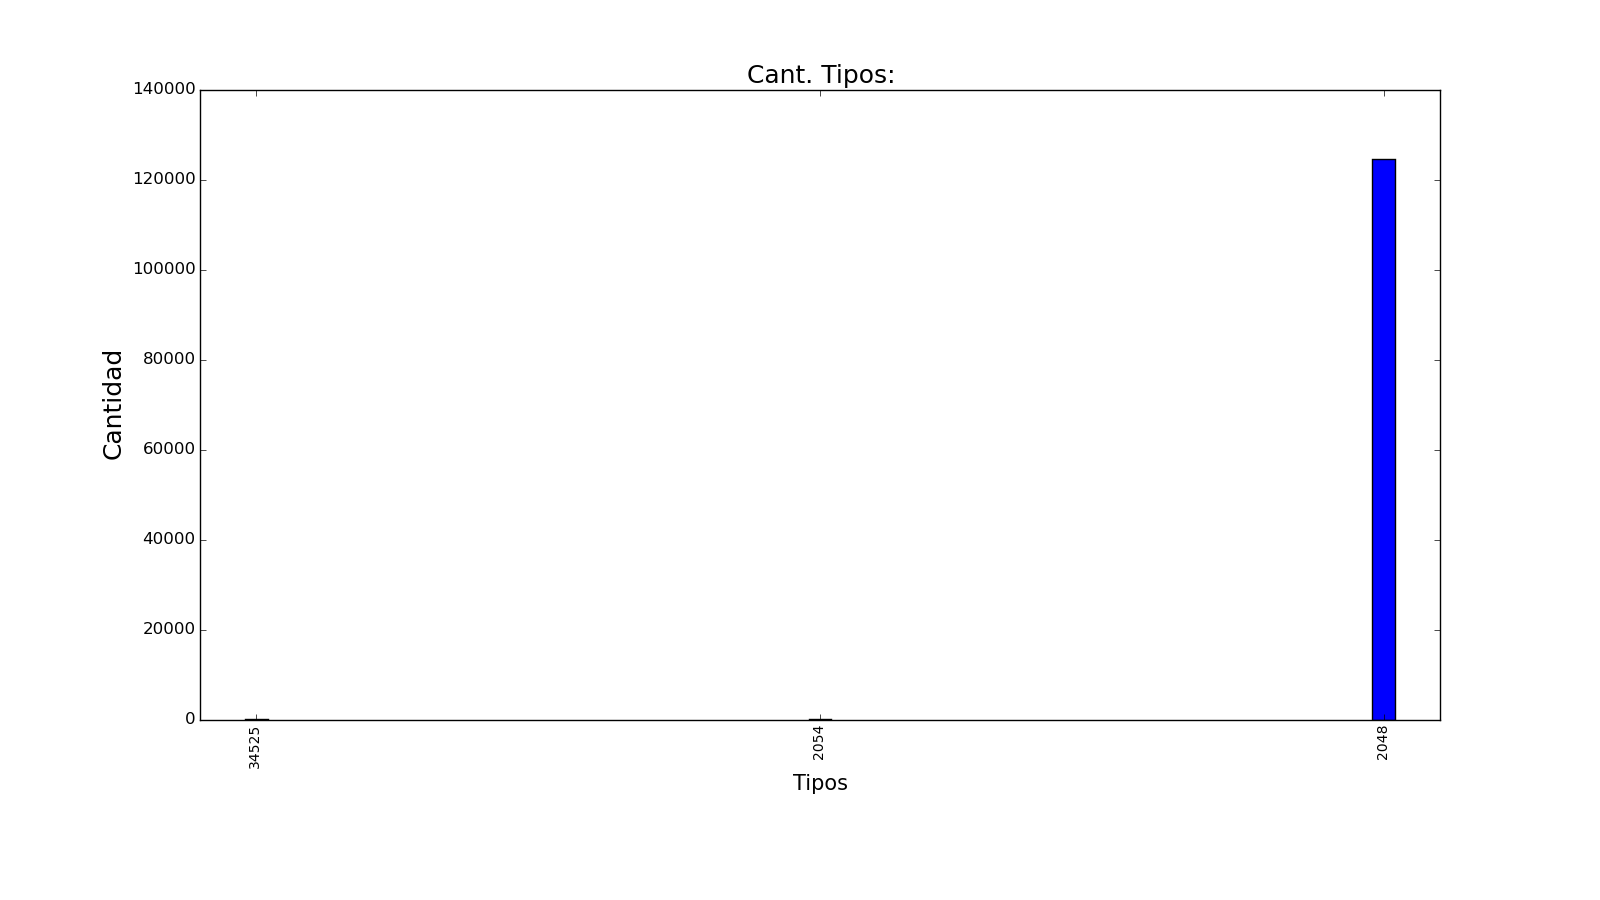
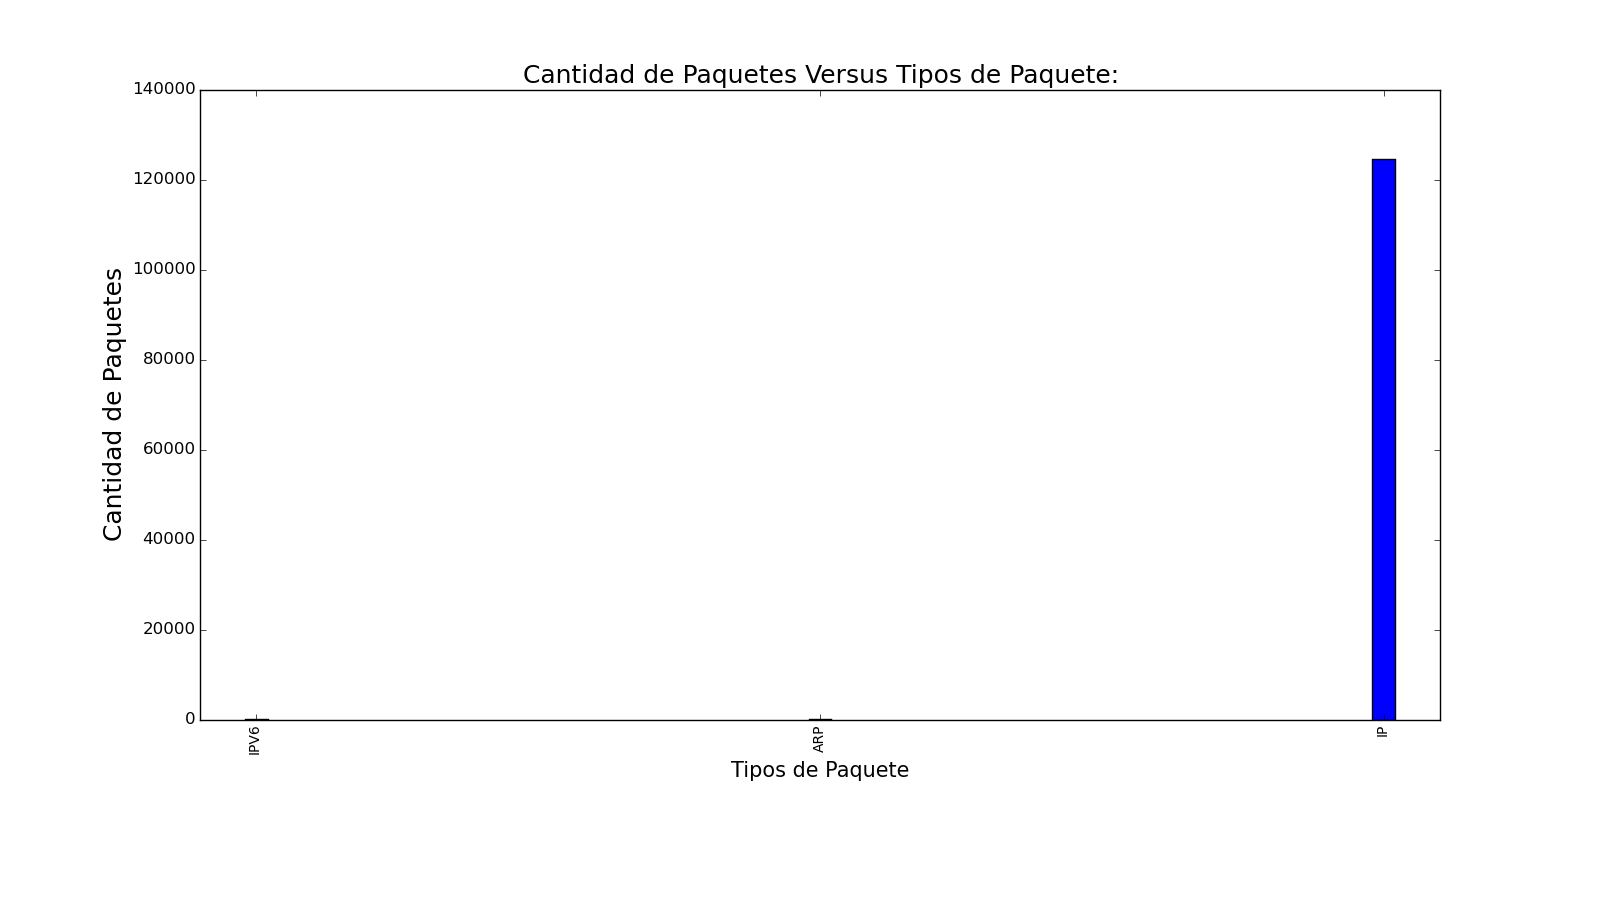
Graficos actualizados

diff --git a/graph_all.py b/graph_all.py
@@ -1,3 +1,5 @@
+#!/usr/bin/env python
+# -*- coding: utf-8 -*-
 import math
 import pydot
 import pickle
@@ -66,14 +68,30 @@ def compute_types_information_histogram():
     for packet_type in type_dictionary:
         probability = float(type_dictionary.get(packet_type)) / packet_count
         log_of_prob = math.log(probability, 2) * (-1)
-        hist[packet_type] = log_of_prob
+        if packet_type == '2048':
+            packet_name = 'IP'
+        elif packet_type == '2054':
+            packet_name = 'ARP'
+        elif packet_type == '34525':
+            packet_name = 'IPV6'
+        else:
+            packet_name = str(packet_type)
+        hist[packet_name] = log_of_prob
     return hist
 
 
 def compute_types_histogram():
     hist = collections.OrderedDict()
     for packet_type in type_dictionary:
-        hist[packet_type] = type_dictionary.get(packet_type)
+        if packet_type == '2048':
+            packet_name = 'IP'
+        elif packet_type == '2054':
+            packet_name = 'ARP'
+        elif packet_type == '34525':
+            packet_name = 'IPV6'
+        else:
+            packet_name = str(packet_type)
+        hist[packet_name] = type_dictionary.get(packet_type)
     return hist
 
 
@@ -103,9 +121,9 @@ def plot_histogram_types():
     plt.xlim([-2, x[-1] + 2])
     plt.bar(x, y, align='center')
     plt.xticks(x, labels, size='small', rotation='vertical', fontsize=18)
-    plt.title('Cant. Tipos:', fontsize=18)
-    plt.xlabel("Tipos", fontsize=15)
-    plt.ylabel("Cantidad", fontsize=18)
+    plt.title('Cantidad de Paquetes Versus Tipos de Paquete:', fontsize=18)
+    plt.xlabel("Tipos de Paquete", fontsize=15)
+    plt.ylabel("Cantidad de Paquetes", fontsize=18)
     filename = 'histogram_types.png'.format()
     f.savefig(filename)
 
@@ -118,12 +136,12 @@ def plot_histogram_types_information(entropy):
     f = plt.figure('hist_{source}'.format(source=source), [16, 9])
     f.subplots_adjust(bottom=0.2)
     plt.xlim([-2, x[-1] + 2])
-    plt.bar(x, y, align='center')
+    plt.bar(x, y, align='center', color='green')
     plt.xticks(x, labels, size='small', rotation='vertical', fontsize=18)
-    plt.title('Cant. Tipos:', fontsize=18)
-    plt.xlabel("Tipos", fontsize=15)
-    plt.ylabel("Informacion", fontsize=18)
-    plt.axhline(entropy, color='r', label='entropia')
+    plt.title('Informacion de Paquete Versus Tipos de Paquete:', fontsize=18)
+    plt.xlabel("Tipos de Paquete", fontsize=15)
+    plt.ylabel("Informacion de Paquete", fontsize=18)
+    plt.axhline(entropy, color='g', label='entropia')
     filename = 'histogram_types_information.png'.format()
     f.savefig(filename)
 
@@ -137,10 +155,10 @@ def plot_histogram_dst_information(entropy):
     f.subplots_adjust(bottom=0.2)
     plt.bar(x, y, align='center')
     plt.xticks(x, labels, size='small', rotation='vertical', fontsize=18)
-    plt.title('Cant. IPs Destino:', fontsize=18)
+    plt.title('Informacion de Paquete Versus IPs Destino:', fontsize=18)
     plt.xlabel("IPs Destino", fontsize=15)
-    plt.ylabel("Informacion", fontsize=18)
-    plt.axhline(entropy, color='r', label='entropia')
+    plt.ylabel("Informacion de Paquete", fontsize=18)
+    plt.axhline(entropy, color='g', label='entropia')
     filename = 'histogram_dst_information.png'.format()
     f.savefig(filename)
 
@@ -154,9 +172,9 @@ def plot_histogram_dst():
     f.subplots_adjust(bottom=0.2)
     plt.bar(x, y, align='center')
     plt.xticks(x, labels, size='small', rotation='vertical', fontsize=18)
-    plt.title('Cant. IPs Destino:', fontsize=18)
+    plt.title('Cantidad de Paquetes Versus IPs Destino:', fontsize=18)
     plt.xlabel("IPs Destino", fontsize=15)
-    plt.ylabel("Cantidad", fontsize=18)
+    plt.ylabel("Cantidad de Paquetes", fontsize=18)
     filename = 'histogram_dst.png'.format()
     f.savefig(filename)
 
@@ -175,7 +193,7 @@ def plot_network():
         node_to = pydot.Node(n_to, fontsize="20.0")
         graph.add_node(node_from)
         graph.add_node(node_to)
-        edge = pydot.Edge(n_from, n_to, label=label, color="blue", fontsize="18.0", len='3.0')
+        edge = pydot.Edge(n_from, n_to, label=label, color="red", fontsize="18.0", len='3.0')
         graph.add_edge(edge)
     filename = 'network.png'.format(basename='test')
     graph.write_png(filename, prog='neato')
